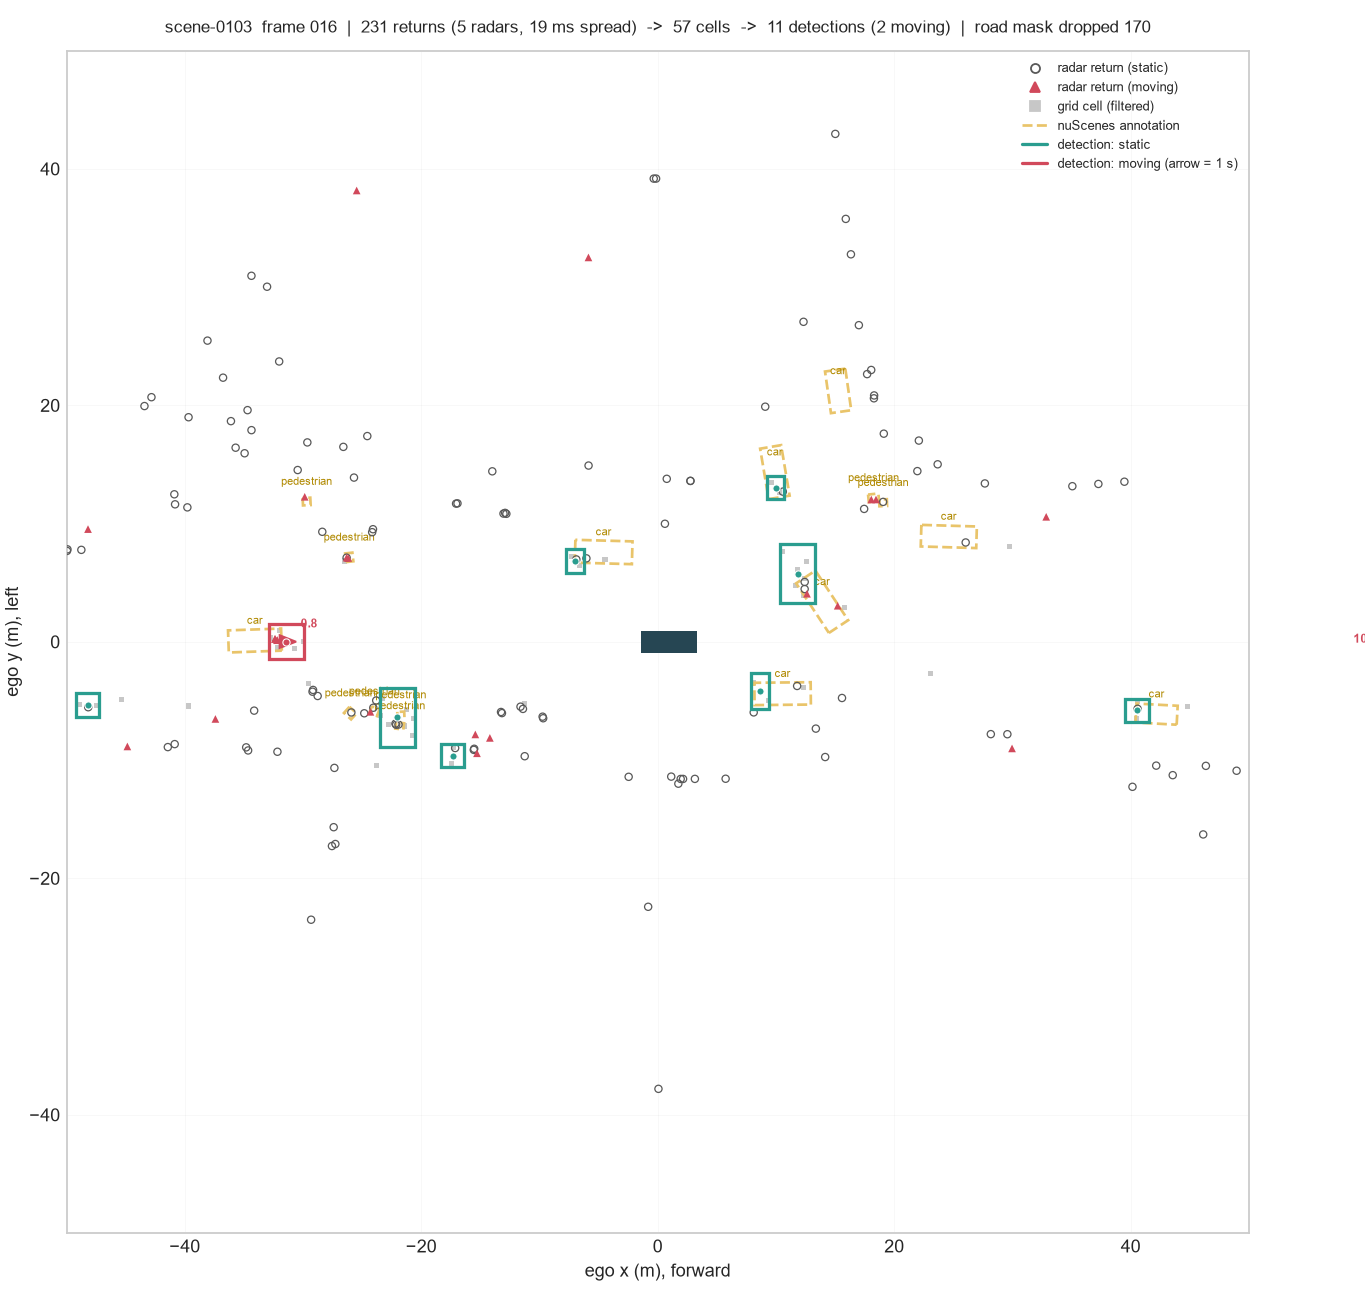
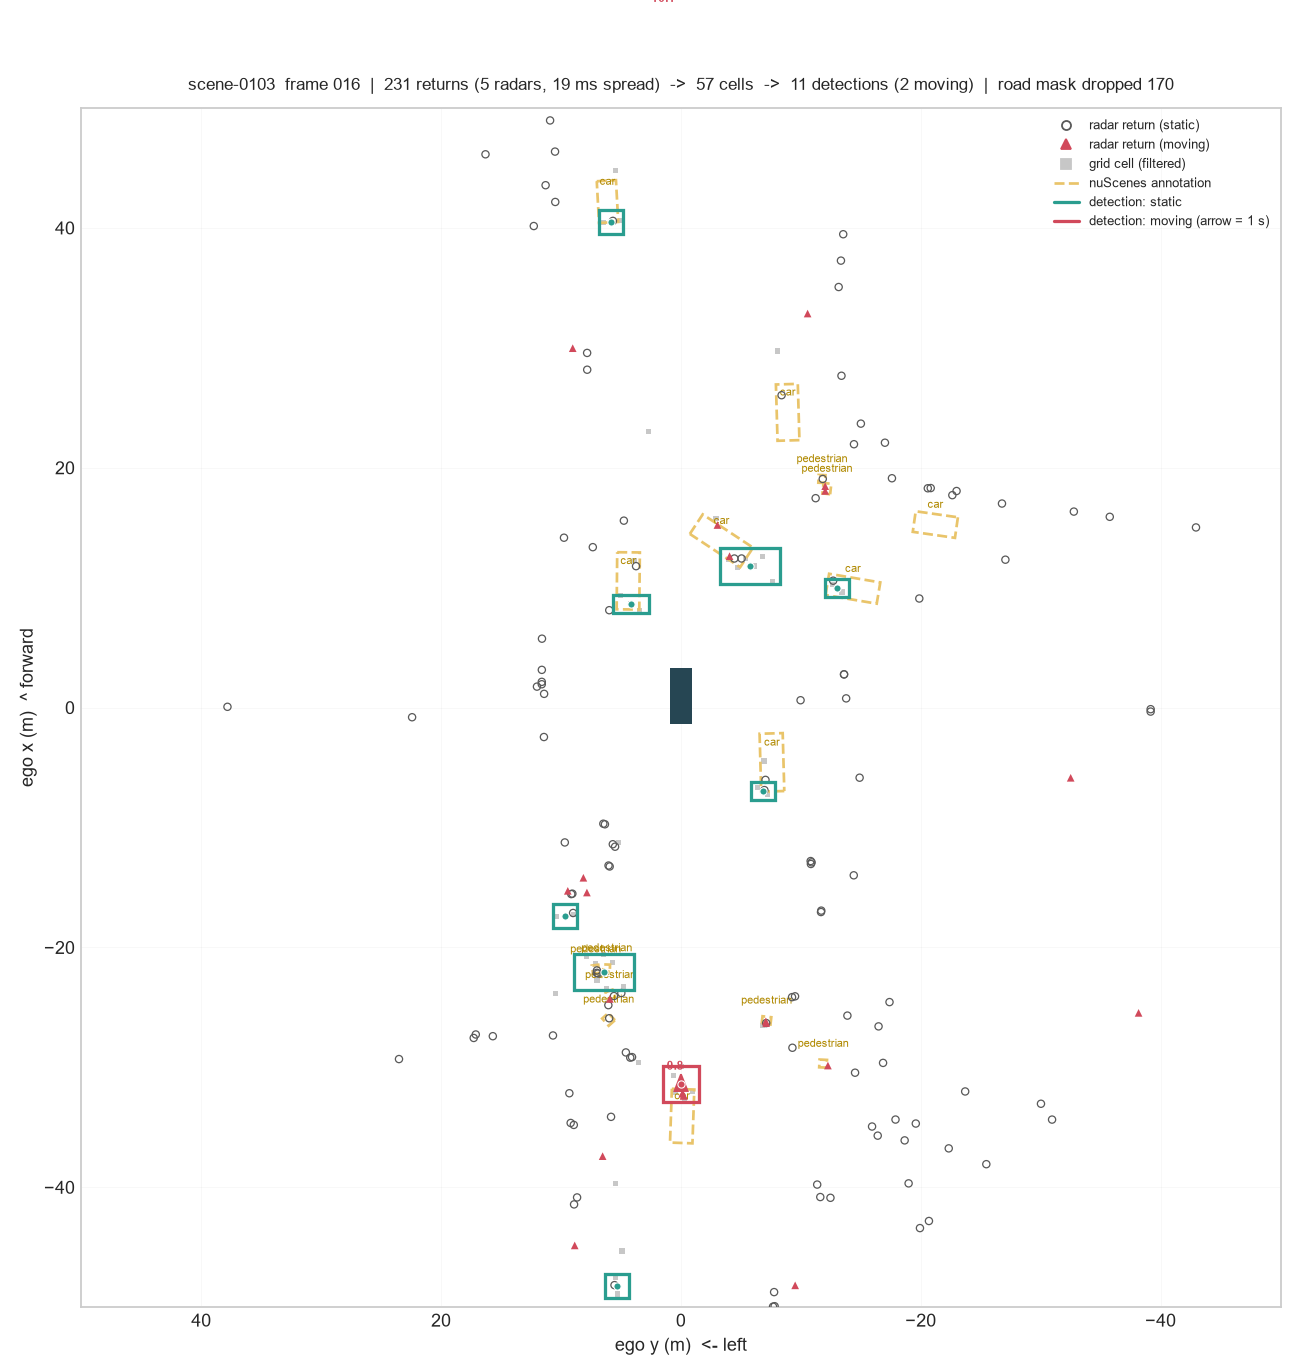
BEV forward-up, and precision/recall split by measured GT motion
Two changes prompted by external review.

BEV orientation: the plot now puts ego +x (forward) up the screen and +y (left)
to the left, matching the usual automotive convention and the camera view. The
mapping is screen_x = -y, screen_y = +x. This is presentation only -- the data
was already ISO 8855 and is verified as such by --verify. Note the sign:
screen_y = -x would put forward at the bottom.

No rotation bug existed in the projection. Projecting ground-truth boxes through
viz/camera_overlay.py reproduces the devkit's own output to 9.1e-08 px across
262 boxes in two scenes; a 90-degree error would show ~1000 px.

Detection-only eval now also splits precision/recall by whether the ground truth
is genuinely moving, using nusc.box_velocity rather than the category. Category
is the wrong signal: a parked car is not a mover and a walking pedestrian is, so
mapping 'car' to dynamic and 'pedestrian' to static gets both backwards. At a
2 m match: moving objects 34.7% precision / 29.8% recall with the motion call
right 75.7% of the time; static objects 50.6% / 29.4% and 98.7%. Recall is
near-identical across the two, so the pipeline finds movers and stationary
objects about equally well and mainly errs by calling a quarter of real movers
static.

diff --git a/eval/run_detection_only_eval.py b/eval/run_detection_only_eval.py
@@ -90,6 +90,86 @@ def _relabel(eval_boxes, radar_visible_only=False, nusc=None):
     return kept
 
 
+def _gt_is_moving(nusc, sample_token, threshold=0.5):
+    """Rounded centres of this sample's annotations that are actually moving.
+
+    Motion is read from `nusc.box_velocity`, i.e. how the annotation itself
+    moves between keyframes. It is NOT inferred from the category: a parked car
+    is stationary and a walking pedestrian is not, so any mapping that calls
+    "car" dynamic and "pedestrian" static gets both cases backwards.
+    """
+    moving = set()
+    for token in nusc.get("sample", sample_token)["anns"]:
+        velocity = nusc.box_velocity(token)
+        if not np.all(np.isfinite(velocity[:2])):
+            continue
+        if float(np.linalg.norm(velocity[:2])) > threshold:
+            ann = nusc.get("sample_annotation", token)
+            moving.add(tuple(round(v, 3) for v in ann["translation"]))
+    return moving
+
+
+def _split_by_motion(nusc, ground_truth, predictions, config, threshold=0.5):
+    """Precision/recall separately for genuinely moving and stationary objects.
+
+    Ground truth is split by its own measured velocity; a detection is counted
+    against whichever group its matched ground truth belongs to. Detections that
+    match nothing are false positives for the group their own velocity claims,
+    which is what makes this a fair test of the static/dynamic call.
+    """
+    distance = config.dist_th_tp          # 2.0 m, nuScenes' TP distance
+    groups = {"moving": dict(tp=0, fp=0, fn=0, right=0),
+              "static": dict(tp=0, fp=0, fn=0, right=0)}
+
+    for token in ground_truth.sample_tokens:
+        truth = list(ground_truth[token])
+        detections = sorted(predictions[token],
+                            key=lambda b: b.detection_score, reverse=True)
+        moving_gt = _gt_is_moving(nusc, token, threshold)
+        labels = [tuple(round(v, 3) for v in b.translation) in moving_gt
+                  for b in truth]
+
+        if not truth:
+            for detection in detections:
+                speed = float(np.hypot(*detection.velocity[:2]))
+                groups["moving" if speed > threshold else "static"]["fp"] += 1
+            continue
+
+        centres = np.array([b.translation[:2] for b in truth])
+        taken = np.zeros(len(truth), dtype=bool)
+        for detection in detections:
+            speed = float(np.hypot(*detection.velocity[:2]))
+            said_moving = speed > threshold
+            distances = np.linalg.norm(centres - np.array(detection.translation[:2]),
+                                       axis=1)
+            distances[taken] = np.inf
+            best = int(np.argmin(distances))
+            if distances[best] <= distance:
+                taken[best] = True
+                group = "moving" if labels[best] else "static"
+                groups[group]["tp"] += 1
+                groups[group]["right"] += int(said_moving == labels[best])
+            else:
+                groups["moving" if said_moving else "static"]["fp"] += 1
+
+        for index, claimed in enumerate(taken):
+            if not claimed:
+                groups["moving" if labels[index] else "static"]["fn"] += 1
+
+    out = {}
+    for name, counts in groups.items():
+        tp, fp, fn = counts["tp"], counts["fp"], counts["fn"]
+        out[name] = {
+            "precision": tp / (tp + fp) if (tp + fp) else 0.0,
+            "recall": tp / (tp + fn) if (tp + fn) else 0.0,
+            "motion_call_correct": counts["right"] / tp if tp else float("nan"),
+            "tp": tp, "fp": fp, "fn": fn,
+        }
+    out["match_distance_m"] = distance
+    out["speed_threshold_ms"] = threshold
+    return out
+
+
 def _precision_recall(ground_truth, predictions, config):
     """Plain TP / FP / FN counts at each matching distance.
 
@@ -164,6 +244,7 @@ def evaluate(nusc, result_path, eval_set="mini_val", radar_visible_only=False,
     # Straight counts, matched exactly the way nuScenes matches: detections
     # sorted by score, greedy nearest ground truth, one GT per detection.
     counts = _precision_recall(ground_truth, predictions, config)
+    by_motion = _split_by_motion(nusc, ground_truth, predictions, config)
 
     rows, aps = {}, []
     for threshold in config.dist_ths:
@@ -196,6 +277,7 @@ def evaluate(nusc, result_path, eval_set="mini_val", radar_visible_only=False,
         "detections": n_pred,
         "ground_truth": n_gt,
         "precision_recall": counts,
+        "by_motion": by_motion,
         "ap_by_distance": rows,
         "mean_ap": float(np.mean(aps)),
         "tp_errors": tp_errors,
@@ -219,6 +301,24 @@ def format_report(result: dict) -> str:
             f"  {threshold:>10.1f}m {row['precision']:>9.1%} {row['recall']:>7.1%} "
             f"{row['f1']:>6.1%} {row['tp']:>6d} {row['fp']:>6d} {row['fn']:>6d} "
             f"{row['mean_position_error_m']:>7.2f}m")
+
+    motion = result.get("by_motion")
+    if motion:
+        lines += [
+            "",
+            f"  split by the ground truth's OWN measured velocity "
+            f"(> {motion['speed_threshold_ms']} m/s), at "
+            f"{motion['match_distance_m']} m match:",
+            f"  {'':>11} {'precision':>10} {'recall':>8} {'motion call':>12} "
+            f"{'TP':>6} {'FP':>6} {'FN':>6}",
+            "  " + "-" * 64,
+        ]
+        for name in ("moving", "static"):
+            row = motion[name]
+            lines.append(
+                f"  {name:>11} {row['precision']:>9.1%} {row['recall']:>7.1%} "
+                f"{row['motion_call_correct']:>11.1%} {row['tp']:>6d} "
+                f"{row['fp']:>6d} {row['fn']:>6d}")
 
     lines += [
         "",
@@ -283,7 +383,8 @@ def main(argv=None):
     with open(out, "w") as handle:
         json.dump({k: {**v,
                        "ap_by_distance": {str(t): r for t, r in v["ap_by_distance"].items()},
-                       "precision_recall": {str(t): r for t, r in v["precision_recall"].items()}}
+                       "precision_recall": {str(t): r for t, r in v["precision_recall"].items()},
+                       "by_motion": v["by_motion"]}
                    for k, v in results.items()}, handle, indent=1)
     print(f"\nwrote {out}")
     return 0

diff --git a/viz/bev_plot.py b/viz/bev_plot.py
@@ -19,6 +19,19 @@ GT_COLOR = "#e9c46a"
 EGO_COLOR = "#264653"
 
 
+def _bev(x, y):
+    """Ego frame (x forward, y left) -> screen axes (forward up, left left).
+
+    Matplotlib's y-axis already increases upward, so the mapping is
+    ``screen_x = -y``, ``screen_y = +x``. Note the sign: negating x instead
+    would put forward at the BOTTOM of the plot.
+
+    This is a presentation convention, not a correction -- the underlying data
+    is ISO 8855 throughout and verified as such (`--verify`).
+    """
+    return -np.asarray(y), np.asarray(x)
+
+
 def _short(name):
     parts = name.split(".")
     return parts[1] if len(parts) > 1 else parts[0]
@@ -27,51 +40,58 @@ def _short(name):
 def plot_cycle(cycle, grid, cells, detections, gt_boxes=None, plot_range=50.0,
                out_path=None, masked_out=0):
     """One keyframe, everything overlaid, in the ego frame (x forward, y left)."""
-    fig, ax = plt.subplots(figsize=(10.5, 10))
-    ax.set_xlim(-plot_range, plot_range)
+    fig, ax = plt.subplots(figsize=(10, 10.5))
+    ax.set_xlim(plot_range, -plot_range)     # +y (left) on the left of the plot
     ax.set_ylim(-plot_range, plot_range)
     ax.set_aspect("equal")
-    ax.set_xlabel("ego x (m), forward")
-    ax.set_ylabel("ego y (m), left")
+    ax.set_xlabel("ego y (m)  <- left")
+    ax.set_ylabel("ego x (m)  ^ forward")
     ax.grid(True, alpha=0.15, linewidth=0.5)
 
     if not cells.is_empty:
-        ax.scatter(cells.centers_ego[:, 0], cells.centers_ego[:, 1],
+        ax.scatter(*_bev(cells.centers_ego[:, 0], cells.centers_ego[:, 1]),
                    c="0.78", s=8, marker="s", edgecolors="none", zorder=1)
 
     for box in gt_boxes or []:
-        ax.add_patch(Polygon(box["corners"], closed=True, fill=False,
+        corners = np.column_stack(_bev(box["corners"][:, 0], box["corners"][:, 1]))
+        ax.add_patch(Polygon(corners, closed=True, fill=False,
                              edgecolor=GT_COLOR, linewidth=1.5,
                              linestyle="--", zorder=2))
         cx, cy = box["center"]
         if abs(cx) < plot_range - 5 and abs(cy) < plot_range - 3:
-            ax.text(cx, cy + 1.4, _short(box["name"]), fontsize=6,
+            sx, sy = _bev(cx, cy)
+            ax.text(float(sx), float(sy) + 1.4, _short(box["name"]), fontsize=6,
                     color="#b08900", ha="center", zorder=3)
 
     if cycle.num_points:
         moving = cycle.speed >= MOVING_SPEED
-        ax.scatter(cycle.points_ego[~moving, 0], cycle.points_ego[~moving, 1],
+        ax.scatter(*_bev(cycle.points_ego[~moving, 0], cycle.points_ego[~moving, 1]),
                    facecolors="none", edgecolors="0.35", s=16, linewidths=0.7,
                    zorder=4)
-        ax.scatter(cycle.points_ego[moving, 0], cycle.points_ego[moving, 1],
+        ax.scatter(*_bev(cycle.points_ego[moving, 0], cycle.points_ego[moving, 1]),
                    c=MOVING_COLOR, s=18, marker="^", edgecolors="none", zorder=5)
 
     for detection in detections:
         color = MOVING_COLOR if detection.is_moving else STATIC_COLOR
         x, y = detection.position_ego
         width, length = detection.size[0], detection.size[1]
-        ax.add_patch(Rectangle((x - length / 2, y - width / 2), length, width,
+        # Ego extent x +/- length/2, y +/- width/2 becomes screen_x +/- width/2,
+        # screen_y +/- length/2 -- the box dimensions swap with the axes.
+        ax.add_patch(Rectangle((-y - width / 2, x - length / 2), width, length,
                                fill=False, edgecolor=color, linewidth=1.8, zorder=6))
-        ax.plot(x, y, marker="o", color=color, markersize=4,
+        sx, sy = _bev(x, y)
+        ax.plot(sx, sy, marker="o", color=color, markersize=4,
                 markeredgecolor="white", markeredgewidth=0.6, zorder=8)
         if detection.is_moving:
             vx, vy = detection.velocity_ego
-            ax.arrow(x, y, vx, vy, head_width=1.1, head_length=1.4,
-                     fc=color, ec=color, length_includes_head=True, zorder=7)
-            ax.text(x + 1.2, y + 1.2, f"{detection.speed:.1f}", fontsize=6.5,
-                    color=color, fontweight="bold", zorder=9)
+            ax.arrow(float(sx), float(sy), -vy, vx, head_width=1.1,
+                     head_length=1.4, fc=color, ec=color,
+                     length_includes_head=True, zorder=7)
+            ax.text(float(sx) + 1.2, float(sy) + 1.2, f"{detection.speed:.1f}",
+                    fontsize=6.5, color=color, fontweight="bold", zorder=9)
 
-    ax.add_patch(Rectangle((-1.4, -0.95), 4.7, 1.9, facecolor=EGO_COLOR,
+    # Ego vehicle: 4.7 m along forward (screen_y), 1.9 m across (screen_x).
+    ax.add_patch(Rectangle((-0.95, -1.4), 1.9, 4.7, facecolor=EGO_COLOR,
                            edgecolor="none", zorder=10))
 
     ax.legend(handles=[

diff --git a/README.md b/README.md
@@ -21,8 +21,9 @@ measures neither height nor orientation, so those are filled with constants.
 
 ![BEV](outputs/stage1/scene-0103/frame_016.png)
 
-Grey squares are accumulated grid cells, amber dashed are annotations, teal and
-red are detections (red = moving, arrow = one second of travel).
+Forward is up, left is left. Grey squares are accumulated grid cells, amber
+dashed are annotations, teal and red are detections (red = moving, arrow = one
+second of travel).
 
 ---
 
@@ -39,6 +40,19 @@ physically see, with classification ignored:
 It finds about a third of visible objects, and is right about 60% of the time
 when it reports one. Velocity error is **0.20 m/s** — Doppler is what radar
 measures well.
+
+Split by whether the ground truth is actually moving (its own measured velocity,
+not its category — a parked car is not a mover and a walking pedestrian is), at
+a 2 m match:
+
+| | precision | recall | motion call correct |
+|---|---|---|---|
+| moving objects | 34.7% | 29.8% | 75.7% |
+| static objects | 50.6% | 29.4% | **98.7%** |
+
+It finds moving and static objects about equally well, but calls stationary
+things right almost always while missing the motion of roughly a quarter of real
+movers.
 
 On the full official benchmark: **mAP 0.0034, NDS 0.0158, car AP 0.0342.** That
 is low almost entirely because radar carries no semantic information — it cannot
